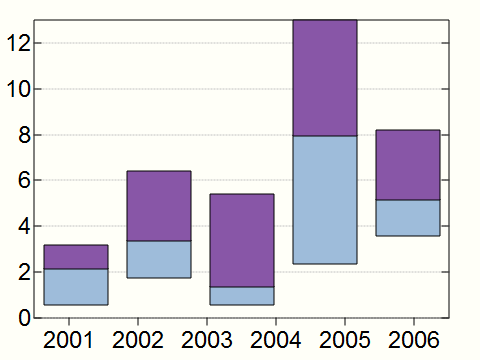
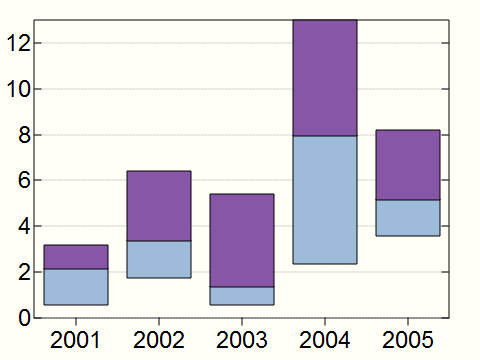
sbar, fbar 그림 수정

Changed region(s): [[0.0938, 0.8861, 0.9375, 0.9778]]

diff --git a/_posts/jlang/plot/2017-03-16-types.html b/_posts/jlang/plot/2017-03-16-types.html
@@ -225,7 +225,7 @@ pd 'reset'
 pd 'type sbar'
 pd 'color MYCOLORS'
 pd 'ytic 2 0'
-pd 'xlabel ',":2001+i.6
+pd 'xlabel ',":2001+i.5
 pd 'backcolor BC'
 pd 0.6 0.8 1* >:?.3#,:3 3 4 7 7
 pd 'show'
@@ -247,7 +247,7 @@ pd 'reset'
 pd 'type fbar'
 pd 'color MYCOLORS'
 pd 'ytic 2 0'
-pd 'xlabel ',":2001+i.6
+pd 'xlabel ',":2001+i.5
 pd 'backcolor BC'
 pd 0.6 0.8 1* >:?.3#,:3 3 4 7 7
 pd 'show'
